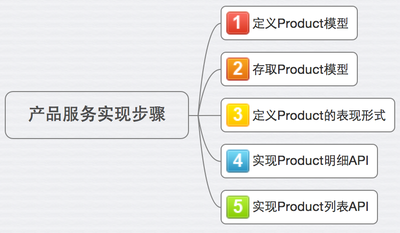
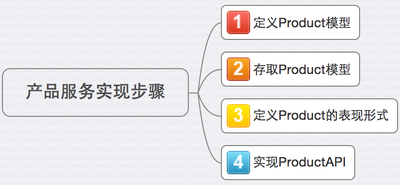
Update Chapter5

Changed region(s): [[0.0, 0.0, 1.0, 0.973], [0.06, 0.4324, 0.42, 0.5405]]

diff --git a/chapter5/[自动化构建与发布].md b/chapter5/[自动化构建与发布].md
@@ -2,28 +2,33 @@
 
 上文中提到，每个服务都是一个可独立部署的业务单元，经过静态检查、代码度量、单元测试、接口测试等阶段后，构建符合需求的部署包，部署包存在的形式是多种多样的。
 
-本例中，笔者选用了docker作为部署的工具，作为一种新兴的虚拟化方式，Docker跟传统的虚拟化方式相比具有众多的优势。首先，Docker 容器的启动可以在秒级实现，这相比传统的虚拟机方式要快得多。 
+### Docker的优势
 
-其次，Docker 对系统资源的利用率很高，一台主机上可以同时运行数千个 Docker 容器。容器除了运行其中应用外，基本不消耗额外的系统资源，使得应用的性能很高，同时系统的开销尽量小。传统虚拟机方式运行 10 个不同的应用就要起 10 个虚拟机，而Docker 只需要启动 10 个隔离的应用即可。具体说来，Docker 在如下几个方面具有较大的优势。
+本例中，笔者选用了docker作为构建与部署的工具。Docker，作为一种新兴的虚拟化方式，其跟传统的虚拟化方式相比具有显著的优势。
 
  - 更快速的交付和部署
 
-对开发和运维（devop）人员来说，最希望的就是一次创建或配置，可以在任意地方正常运行。
-开发者可以使用一个标准的镜像来构建一套开发容器，开发完成之后，运维人员可以直接使用这个容器来部署代码。 Docker 可以快速创建容器，快速迭代应用程序，并让整个过程全程可见，使团队中的其他成员更容易理解应用程序是如何创建和工作的。 Docker 容器很轻很快！容器的启动时间是秒级的，大量地节约开发、测试、部署的时间。
+对开发和运维人员来说，最希望的就是一次构建，可以在任意地方正常运行。
+通过使用Docker，开发者可以构建一个标准的Docker镜像，运维人员可以直接使用这个Docker镜像来部署。 
+
+这使得开发人员能够快速构建以容器为核心的部署包，并让整个过程全程可见，使团队中的其他成员更容易理解应用的部署包是如何构建和运行的。 
 
 - 更高效的虚拟化
 
-Docker 容器的运行不需要额外的 hypervisor 支持，它是内核级的虚拟化，因此可以实现更高的性能和效率。
+Docker 容器的运行不需要额外的虚拟化资源支持，它是内核级的虚拟化，因此可以实现更高的性能和效率。
 
 - 更轻松的迁移和扩展
 
-Docker 容器几乎可以在任意的平台上运行，包括物理机、虚拟机、公有云、私有云、个人电脑、服务器等。 这种兼容性可以让用户把一个应用程序从一个平台直接迁移到另外一个。
+Docker 容器几乎可以在任意的平台上运行，包括物理机、虚拟机、公有云、私有云、个人电脑、服务器等。 这种兼容性使用户能够把一个应用从一个平台直接迁移到另外一个平台。
 
 - 更简单的管理
 
 使用 Docker，只需要小小的修改，就可以替代以往大量的更新工作。所有的修改都以增量的方式被分发和更新，从而实现自动化并且高效的管理。
 
+### Dockerfile
+
 说了这么多好处，我们来看看使用docker怎么去构建并发布包含工程运行环境的镜像包。首先需要在项目的根目录创建一个Dockerfile:
+
 
 ```
 FROM ruby:2.2.0
@@ -46,9 +51,24 @@ EXPOSE 80
 CMD bundle exec unicorn -c config/unicorn.rb -p 80
 ```
 
-Docker能够自动读取Dockerfile中的指令来构建镜像包。 Dockerfile是一个文本文档，它实际上包含了你手动构建一个Docker镜像包的所有指令。通过在命令行执行docker build，Docker就会一步一步地执行Dockerfile中定义的指令。从上面的Dockerfile中可以看出，我们要构建的镜像包是基于一个基础的镜像包“ruby:2.2.0”，在它的基础上，首先清除/app文件夹，然后使用apt-get安装依赖的包，接着用bundler安装项目中用到的所有gem包，最后使用unicorn运行服务并开放80端口。整个过程一气呵成，Dockerfile帮我们省掉了许多手动操作的步骤。
+Dockerfile是一个文本文件，它包含了构建一个Docker镜像所需要的指令。当在命令行中执行docker build时，Docker就会一步一步地执行Dockerfile中定义的指令。
 
-既然有了Dockerfile，接下来要做的就是编写一个脚本将我们项目的构建以及发布自动化起来，因此就有了下面的build.sh：
+通过Dockerfile，Docker便能够自动读取并解析其中的指令，来构建Docker的镜像包。
+
+从上面的Dockerfile的内容可以看出，我们要构建的镜像包是基于一个基础的镜像包“ruby:2.2.0”。
+
+实际上，Docker镜像的构建，是基于这个ruby的镜像包，并执行如下命令完成。
+- 创建/app文件夹。
+- 使用apt-get安装依赖包，
+- 使用bundler安装项目中用到的所有gem包
+- 使用unicorn启动服务并运行在80端口。
+
+整个过程一气呵成，Dockerfile帮我们省掉了许多手动操作的步骤。
+
+
+### 自动化构建与发布
+
+有了Dockerfile，接下来要做的就是编写脚本，将我们项目的构建以及发布的过程自动化，因此就有了下面的build.sh：
 
 ```
 #!/bin/bash
@@ -64,7 +84,6 @@ VERSION=$(cat MAJOR_VERSION).$BUILD_NUMBER
 
 FULL_TAG=${DOCKER_REGISTRY_URL:="localhost"}/$DOCKER_REGISTRY_USER_NAME/$APP_NAME:$VERSION
 
-echo "Build and push Docker image to Registry"
 echo "Building Docker image"
 docker build -t $FULL_TAG .
 
@@ -74,4 +93,11 @@ if [ $DOCKER_REGISTRY_URL != "localhost" ]; then
 fi
 ```
 
-build.sh实际上只做了两件事，首先通过执行docker build构建一个包含项目代码以及运行环境的镜像包，再使用docker push将其发布到某个docker registry中，这个docker registry可以是第三方的docker hub等，也可以自己搭建一个安全又私有的registry。
+如上代码所示，build.sh只做了两件事：
+
+- 首先通过执行docker build构建一个包含项目代码以及运行环境的镜像包，
+- 其次使用docker push将其发布到某个docker registry中，这个docker registry可以是第三方环境，如docker hub等，也可以自己搭建一个私有的registry。
+
+### 小结
+
+使用Docker，能够灵活的将服务构建成一个个独立的Docker镜像。同时，通过实现build.sh脚本，我们能使用自动化的方式，更有效的完成镜像的发布过程。

diff --git a/chapter5/[代码静态检查].md b/chapter5/[代码静态检查].md
@@ -1,8 +1,11 @@
 # 代码静态检查
 
-随着敏捷开发的日渐流行，文档的地位不断被削弱，此时代码的可读性和质量往往成为直接决定项目是否健壮可维护的关键。这就要求我们的代码具有良好的风格（包括注释、命名等）、代码格式标准、程序没有非法调用和低级bug，以及用以对功能进行解释的单元测试能够尽可能多地覆盖核心功能。如果每次我们都手动去依次检查这些点是否达标，那持续集成将变得无比缓慢。更遑论持续交付了。
+随着敏捷开发的实践已经逐渐深入人心，越来越多的开发者意识到文档，作为解释性的文字描述，很难和代码保持同步，因此代码的可读性和质量往往成为直接决定项目是否健壮、可维护的关键。
 
-所以我们通常会使用一些自动化的代码检查工具来保证我们的代码质量，在本例中，笔者使用了rubocop来进行ruby代码的静态检查，部分配置如下：
+这就要求我们的代码具有良好的风格（包括注释、命名等）、代码格式标准、程序没有非法调用和低级bug，以及用以对功能进行解释的单元测试能够尽可能多地覆盖核心功能。如果每次我们都手动去依次检查这些点是否达标，那持续集成将变得无比缓慢，更不用说持续交付了。
+
+所以我们通常会使用一些自动化的代码检查工具来保证我们的代码质量，在笔者的实践中，大部分项目都会使用[rubocop]()来进行ruby代码的静态检查，其大致配置如下：
+
 
 ```
 EmptyLinesAroundBlockBody:
@@ -31,7 +34,11 @@ WordArray:
 
 ```
 
-上面的配置文件中，规定了在block体前后必须有空行，每行代码最长不能超过120个符号，方法不能超过20行等，更多配置，请参考rubocop的官方文档。我们通常希望将代码检查工具和rake集成，这样我们就可以在使用rake运行自动化测试时，同时进行代码质量的检查，为了达到这个目的，我们只需要为它创建一个rake task，并把它加入rakefile的默认任务中，代码如下:
+上面的配置文件中，规定了在block体前后必须有空行，每行代码最长不能超过120个符号，方法不能超过20行等，更多配置，请参考rubocop的官方文档。
+
+另外，我们通常将代码检查工具rubocop和rake集成，这样就可以在使用rake运行自动化测试时，同时进行代码质量的检查。
+
+如下代码所示，我们首先创建了一个task，并把RuboCop加入到rakefile的默认任务中，代码如下:
 
 ```
 namespace :quality do
@@ -53,4 +60,4 @@ namespace :quality do
 end
 ```
 
-我们可以看到，在这个rake task中，我们只需要将期望被检查的文件加到task.patterns中即可，其他的任务就交给Rubocop帮我们处理吧。
+如上所示，我们只需要将期望被检查的文件加到task.patterns中，Rubocop就能帮我们对文件的内容进行静态检查了。

diff --git a/chapter5/[告警].md b/chapter5/[告警].md
@@ -2,17 +2,26 @@
 
 告警是运维环节另外一个非常重要的部分。当系统出现异常时，通过合适的告警机制，能及时、有效的通知相关负责人，做到早发现、早分析，早修复。
 
-针对每个服务，都应该提供有效的告警机制，确保当某服务出现异常时，能够准确有效的通知到责任人，并及时解决问题。目前比较流行的告警软件有PagerDuty、Nagios等。
+针对每个服务，都应该提供有效的告警机制，确保当某服务出现异常时，能够准确有效的通知到责任人，并及时解决问题。
 
-PagerDuty是一款能够在服务出问题时发送提醒的软件。在发生问题时，提醒的方式包括屏幕显示、电话呼叫、短信通知、电邮通知等，而且在无人应答时还会自动将提醒级别提高。
+目前比较流行的告警工具有[PagerDuty](https://www.pagerduty.com/)、[Nagios](https://www.nagios.com/)等。在笔者参与的项目中，大部分使用PageDuty作为告警工具，更多关于PageDuty的介绍以及使用，请参考相关文档。
 
-在笔者参与的项目中，大部分使用PageDuty作为告警工具。
+在产品服务这个例子中，我们就将PageDuty作为告警工具。
 
-上一小节介绍了用NewRelic进行监控，那么如何将PagerDuty和NewRelic联系起来呢？
+>
 
-登录NewRelic的控制台，点击 “Browser” -> “Alerts” -> “Channels and groups”。
+PagerDuty是一款能够在服务出问题时发送提醒的软件。在发生问题时，提醒的方式包括屏幕显示、电话呼叫、短信通知、邮件通知等，同时还集成了[Slack](https://slack.com/)等即时消息应用，另外在无人应答时还会自动将提醒级别提高。
 
-<img src="images/product-service-todo-800-600.png" />
+## PageDuty与NewRelic
 
-接下来，点击“Create Channel”并选择“PagerDuty”，通过一系列的配置即可完成PagerDuty和NewRelic的集成。配置成功后，NewRelic的任何报警信息都会被发送到PagerDuty，并且通过邮件或者电话的方式通知到相关的责任人。
+上一小节中，我们介绍了使用NewRelic进行监控，那么如何将PagerDuty和NewRelic集成，确保监控发现异常时能及时发送告警呢？
 
+实际上，NewRelic本身已经和PageDuty集成好了，我们只需要按照如下步骤设置NewRelic即可：
+
+- 登录NewRelic的控制台，点击 “Browser” -> “Alerts” -> “Channels and groups”。
+
+- 点击“Create Channel”并选择“PagerDuty”，按照要求填写相关配置信息，即可完成PagerDuty和NewRelic的集成。
+
+ <img src="images/product-service-newrelic-configuration-800-600.png" />
+
+- 配置成功后，NewRelic的任何报警信息都会被发送到PagerDuty，并且通过邮件或者电话的方式通知到相关的责任人。

diff --git a/chapter5/[部署].md b/chapter5/[部署].md
@@ -1,22 +1,18 @@
-# 概述
+# 部署
 
-在前一小节中介绍了如何自动化构建一个能够运行微服务的docker镜像包并将其发布到了docker registry上，这时我们就可以在任何一台安装了docker的机器上运行它了。由于是示例，笔者在这里编写了一个简单的脚本，你可以使用ssh登录想要部署的机器，并且执行下面的脚本，当然，我们也让该脚本在机器启动时自动执行。
+在前一小节中，我们介绍了如何基于Docker，自动化的构建服务镜像包，并同时将其发布到docker registry上。这一节，我们就探索如何使用Docker进行服务的部署。
+
+如下脚本演示了如何使用Docker完成服务的部署过程。
 
 ```
 #! /bin/bash
 set -e
 
-[[ -z $BUILD_NUMBER ]] && echo "Need BUILD_NUMBER" && exit 1
-[[ -z $PRODUCT_DB_URL ]] && echo "Need PRODUCT_DB_URL" && exit 1
-[[ -z $PRODUCT_DB_USERNAME ]] && echo "Need PRODUCT_DB_USERNAME" && exit 1
-[[ -z $PRODUCT_DB_PASSWORD ]] && echo "Need PRODUCT_DB_PASSWORD" && exit 1
-[[ -z $ENV ]] && echo "Need ENV" && exit 1
-
-DOCKER_REGISTRY_URL="YOUR REGISTRY URL"
+DOCKER_REGISTRY_URL="YOUR REGISTRY URL"   
 DOCKER_REGISTRY_USER_NAME="USER NAME"
-APP_NAME=${APP_NAME:-product-service}
 APP_VERSION=$(cat MAJOR_VERSION).$BUILD_NUMBER
-FULL_TAG=${DOCKER_REGISTRY_URL:="localhost"}/$DOCKER_REGISTRY_USER_NAME/$APP_NAME:$APP_VERSION
+
+FULL_TAG=${DOCKER_REGISTRY_URL}/$DOCKER_REGISTRY_USER_NAME/$APP_NAME:$APP_VERSION
 
 echo "Pulling Docker image from Registry"
 docker pull $FULL_TAG
@@ -26,4 +22,17 @@ docker run -d -p 80:80 --name product-service -e PRODUCT_DB_URL=$PRODUCT_DB_URL 
 
 ```
 
-这个脚本会自动将我们之前发布的docker镜像包pull到本地，并且通过docker run为我们启动一个docker container，在执行docker run时，-e可以通过参数设置需要的环境变量，-p 80:80指的是将docker container的80端口映射到docker host的80端口，到这里，我们就可以通过docker host的80端口访问我们的服务了。
+如上所示，该脚本主要包括几个部分：
+
+- 准备镜像信息
+- 下载docker镜像
+- 启动docker容器
+
+
+首先，设置环境变量，准备下载docker镜像时所需的信息（tag），包括docker registry的地址、应用/服务版本号（通常是由主版本号+持续集成环境生成的构建号组成）以及访问docker registry的用户名。
+
+然后，根据上一步镜像的tag，下载对应的docker镜像；
+
+最后，使用`docker run`启动docker容器。其中的参数-e, 用于将docker主机(docker Host)设置的环境变量传递到docker容器中。
+
+另外，命令行中的-p 80:80指的是将docker容器的80端口映射到docker主机的80端口，这样，我们就可以通过访问docker主机的80端口，访问docker容器里运行的服务了。

diff --git a/chapter5/[监控].md b/chapter5/[监控].md
@@ -1,6 +1,8 @@
 # 监控
 
-上文中提到，由于每个服务都是一个可以独立运行的业务单元，同时每个服务都运行在不同的独立节点上。因此，需要为服务建立独立的监控、告警、快速分析和定位问题的机制，我们将它们统一归纳为服务的运维。其中，监控是整个运维环节，乃至服务生命周期中非常重要的一环。关于监控，目前业界已经有许多成熟的产品，譬如Zabbix、NewRelic、OneAPM等。这里，我们以NewRelic为例给大家介绍如何配置服务的监控。
+上文中提到，由于每个服务都是一个可以独立运行的业务单元，同时每个服务都运行在不同的独立节点上。因此，需要为服务建立独立的监控、告警、快速分析和定位问题的机制，我们将它们统一归纳为服务的运维。而作为异常情况的发现者，监控是整个运维环节，乃至服务生命周期中非常重要的一环。
+
+关于监控，目前业界已经有许多成熟的产品，譬如Zabbix、NewRelic、OneAPM等。在笔者的项目实践中，大部分项目都是以NewRelic为主，这里就给大家简单介绍一下如何配置产品服务的监控。
 
 由于本例中我们使用Grape来实现API，所以，首先在项目的Gemfile中添加
 ```
@@ -35,4 +37,4 @@ production:
   <<: *default_settings
 ```
 
-将newrelic.yml保存至工程的config目录下，重新启动应用，喝杯咖啡等待几分钟，这时就能通过NewRelic的dashboard看到你应用的监控信息了。
+将newrelic.yml保存至工程的config目录下，重新启动应用。系统就能自动获取信息，这时就能通过NewRelic的控制面板看到应用或者服务的监控信息了。

diff --git a/SUMMARY.md b/SUMMARY.md
@@ -55,10 +55,29 @@
 		* [场景分析](chapter5/[场景分析].md)
 		* [代码实现](chapter5/[代码实现].md)
 		* [代码静态检查](chapter5/[代码静态检查].md)
-		* [自动化构建与发布](chapter5/[自动化构建与发布].md)
+		* [构建与发布](chapter5/[自动化构建与发布].md)
 		* [部署](chapter5/[部署].md)
 		* [监控](chapter5/[监控].md)
 		* [告警](chapter5/[告警].md)
 		* [日志聚合](chapter5/[日志聚合].md)
 		* [持续集成](chapter5/[持续集成].md)
 	* [总结](chapter5/[总结].md)
+
+* [不仅仅是REST]()	
+	* [概述](chapter6/[概述].md)
+	* [RPC](chapter6/[RPC].md)	
+		* [RPC的核心](chapter6/[RPC的核心].md)
+		* [RPC的优势](chapter6/[RPC的优势].md)
+		* [RPC的弊端](chapter6/[RPC的弊端].md)
+		* [总结](chapter6/[RPC总结].md)
+	* [REST](chapter6/[RPC].md)	
+		* [RPC的核心](chapter6/[RPC的核心].md)
+		* [RPC的优势](chapter6/[RPC的优势].md)
+		* [RPC的弊端](chapter6/[RPC的弊端].md)
+		* [总结](chapter6/[RPC总结].md)		
+		* [部署](chapter5/[部署].md)
+		* [监控](chapter5/[监控].md)
+		* [告警](chapter5/[告警].md)
+		* [日志聚合](chapter5/[日志聚合].md)
+		* [持续集成](chapter5/[持续集成].md)
+	* [总结](chapter5/[总结].md)	

diff --git a/chapter6/[RPC的总结].md b/chapter6/[RPC的总结].md
@@ -1,4 +1,5 @@
 # 总结
 
 对于微服务架构而言，每个服务都是独立的个体，每个个体的技术栈、实现细节都有可能存在差异。
+
 因此，RPC虽然能简化客户端的代码调用，但由于其耦合度高、灵活性差，并不能作为一种轻量级的机制满足服务之间通信的要求。
